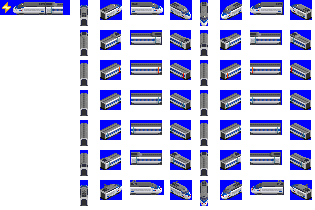
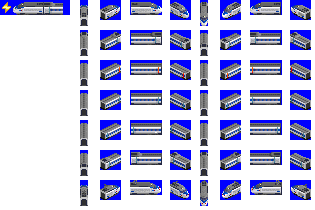
Update: Change graphics of KTX1N Closes #454

diff --git a/docs/changelog.md b/docs/changelog.md
@@ -1,3 +1,7 @@
+2.6.3+
+-----
+ * 변경: KTX-1 그래픽 변경 [#454]
+
 2.6.2
 -----
  * 수정: 벌크 시멘트 화차를 어떤 기관차에도 붙일 수 없던 현상
